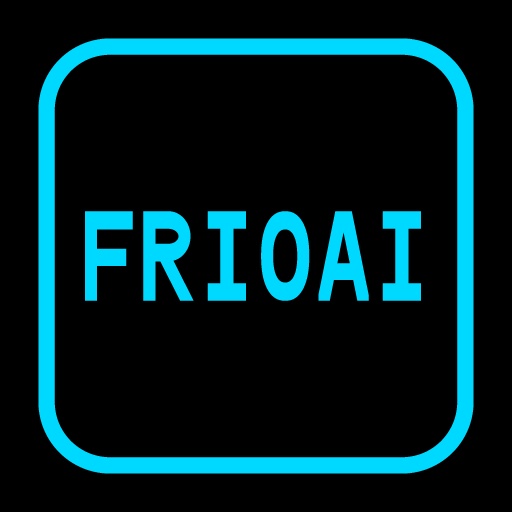
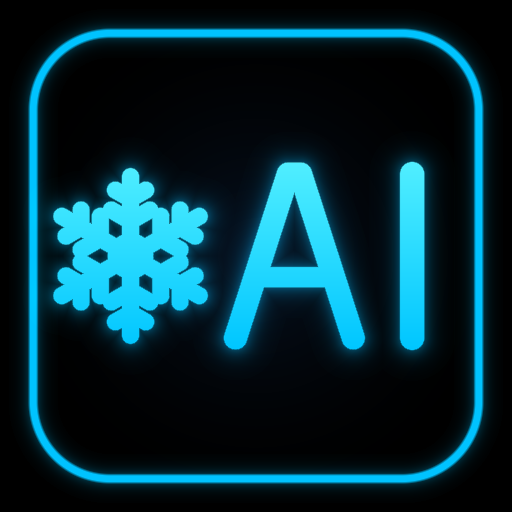
feat(pwa): atualizar icone para simbolo ❄AI em azul sobre fundo preto (V91)

diff --git a/components/TutorialOverlay.tsx b/components/TutorialOverlay.tsx
@@ -21,7 +21,7 @@ export const TutorialOverlay: React.FC<Props> = ({ isActive, onClose, setView })
     const steps: TutorialStep[] = [
         {
             targetView: ViewState.DIAGNOSTIC,
-            title: "BEM-VINDO AO FRIOTECH / AGENTE AI ❄ V90",
+            title: "BEM-VINDO AO FRIOTECH / AGENTE AI ❄ V91",
             icon: "fa-solid fa-handshake",
             content: (
                 <>
@@ -80,7 +80,7 @@ export const TutorialOverlay: React.FC<Props> = ({ isActive, onClose, setView })
             icon: "fa-solid fa-check-double",
             content: (
                 <>
-                    <p>Você está pronto para usar o <strong>FrioTech / Agente AI V90</strong>.</p>
+                    <p>Você está pronto para usar o <strong>FrioTech / Agente AI V91</strong>.</p>
                     <p className="mt-2">Se tiver dúvida, volte aqui no ícone de ajuda (?) no topo da tela.</p>
                     <p className="mt-2 font-bold text-emerald-400">Bom trabalho, parceiro!</p>
                 </>

diff --git a/components/Estrutura.tsx b/components/Estrutura.tsx
@@ -65,7 +65,7 @@ export const Header: React.FC<HeaderProps> = ({ isOnline, onStartTutorial, compa
                             aria-label="Status do sistema"
                         >
                             {compact && <span className={`w-1.5 h-1.5 rounded-full ${isOnline ? 'bg-[#18e07a]' : 'bg-red-200'}`}></span>}
-                            <span className="text-[9px] font-black leading-none">{compact ? 'V90.0' : (isOnline ? 'ON' : 'OFF')}</span>
+                            <span className="text-[9px] font-black leading-none">{compact ? 'V91.0' : (isOnline ? 'ON' : 'OFF')}</span>
                             {!compact && <span className={`absolute -top-0.5 -right-0.5 w-2 h-2 rounded-full border border-[#263243] ${isOnline ? 'bg-[#00ff88]' : 'bg-red-200'}`}></span>}
                         </button>
                     </div>

diff --git a/components/LoginScreen.tsx b/components/LoginScreen.tsx
@@ -147,7 +147,7 @@ export const LoginScreen: React.FC<LoginScreenProps> = ({ onLogin, installPrompt
 
                     <div className="flex flex-col items-center">
                         <h1 className="flex items-baseline gap-2 mb-1">
-                            <span className="font-inter font-black tracking-wider text-xl leading-none text-[#00d9ff]">AGENTE AI <span className="text-white/60 text-sm">V90</span></span>
+                            <span className="font-inter font-black tracking-wider text-xl leading-none text-[#00d9ff]">AGENTE AI <span className="text-white/60 text-sm">V91</span></span>
                         </h1>
                         <p className="mt-2 text-[10px] font-bold uppercase tracking-[0.3em] text-[#E8EAF6]/60">{'Terminal T\u00e9cnico Privado'}</p>
                     </div>

diff --git a/index.html b/index.html
@@ -7,10 +7,10 @@
   <meta name="theme-color" content="#263243">
   <title>FrioTech / Agente AI ❄</title>
 
-  <link rel="icon" type="image/png" sizes="192x192" href="/icon-192.png?v=90">
-  <link rel="icon" type="image/png" sizes="512x512" href="/icon-512.png?v=90">
-  <link rel="apple-touch-icon" href="/icon-512.png?v=90">
-  <link rel="manifest" href="/manifest.json?v=90">
+  <link rel="icon" type="image/png" sizes="192x192" href="/icon-192.png?v=91">
+  <link rel="icon" type="image/png" sizes="512x512" href="/icon-512.png?v=91">
+  <link rel="apple-touch-icon" href="/icon-512.png?v=91">
+  <link rel="manifest" href="/manifest.json?v=91">
   <script src="https://cdn.tailwindcss.com"></script>
   <script>
     tailwind.config = {

diff --git a/public/sw.js b/public/sw.js
@@ -1,4 +1,4 @@
-const CACHE_NAME = 'friotech-ai-v90';
+const CACHE_NAME = 'friotech-ai-v91';
 const ASSETS = [
     '/',
     '/index.html',

diff --git a/SALA_DE_REUNIAO.md b/SALA_DE_REUNIAO.md
@@ -10,16 +10,21 @@
 | Campo | Valor |
 |-------|-------|
 | **Data** | 2026-11-18 |
-| **Versao em producao** | **V90** (publicada em 2026-11-18) |
-| **Commit publicado** | V90 (icones PNG reais 192x192 e 512x512 FRIOAI para instalacao PWA no Windows/Android/iOS, selos V90) |
+| **Versao em producao** | **V91** (publicada em 2026-11-18) |
+| **Commit publicado** | V91 (icone PWA ❄AI com floco de neve cristalino e AI em azul sobre fundo preto, selos V91) |
 | **Endereco** | https://friotech-ai.vercel.app (exclusivo; dominios antigos bloqueados) |
 | **Repositorio / branch** | `marlonkuhn123-ops/friotech-ai.vercel.app` / `main` |
-| **Autoteste interno** | **59/59** na V90 (59 na V89) (botao de status dentro do app) |
-| **Verificacao em producao** | V90: icones PNG reais FRIOAI (fundo preto, letras azuis), 4 selos V90 unificados |
+| **Autoteste interno** | **59/59** na V91 (59 na V90) (botao de status dentro do app) |
+| **Verificacao em producao** | V91: icones PNG reais ❄AI (fundo preto, simbolo ❄AI em azul), 4 selos V91 unificados |
 | **Pendencias abertas** | Nenhuma pendência crítica |
 | **Pode editar o app agora?** | Somente com autorizacao explicita do USER |
 
-**Ultima atualizacao (o que mudou na V90) - ICONES PNG REAIS (192x192 E 512x512) FRIOAI PARA ATALHO PWA:**
+**Ultima atualizacao (o que mudou na V91) - ICONE PWA ❄AI (SOMENTE SIMBOLO ❄AI EM AZUL SOBRE FUNDO PRETO):**
+1. Refeitos os icones `public/icon-192.png`, `public/icon-512.png` e `public/icon.svg` retirando `FRIOAI` e deixando exclusivamente o simbolo **`❄AI`** (floco de neve geometrico + `AI` em gradiente azul gelo com brilho suave sobre fundo preto profundo).
+2. Atualizados `public/manifest.json` (`short_name: "❄AI"`, `?v=91`) e `index.html` (`?v=91`).
+3. Alinhados os 4 selos obrigatorios em **V91**: `components/Estrutura.tsx` (`V91.0`), `public/sw.js` (`friotech-ai-v91`), `components/LoginScreen.tsx` (`V91`) e `components/TutorialOverlay.tsx` (`V91` x2).
+
+**Mudanca anterior (o que mudou na V90) - ICONES PNG REAIS (192x192 E 512x512) FRIOAI PARA ATALHO PWA:**
 1. Gerados arquivos PNG reais `public/icon-192.png` e `public/icon-512.png` (fundo preto `#000000`, moldura e letras `FRIOAI` em azul `#00D9FF`), pois o Chrome no Windows/Android exige PNG no `manifest.json` para não gerar o ícone cinza padrão com a letra "F".
 2. Atualizados `public/manifest.json` e `index.html` apontando para os PNGs com cache-busting `?v=90`.
 3. Alinhados os 4 selos obrigatorios em **V90**: `components/Estrutura.tsx` (`V90.0`), `public/sw.js` (`friotech-ai-v90`), `components/LoginScreen.tsx` (`V90`) e `components/TutorialOverlay.tsx` (`V90` x2).
